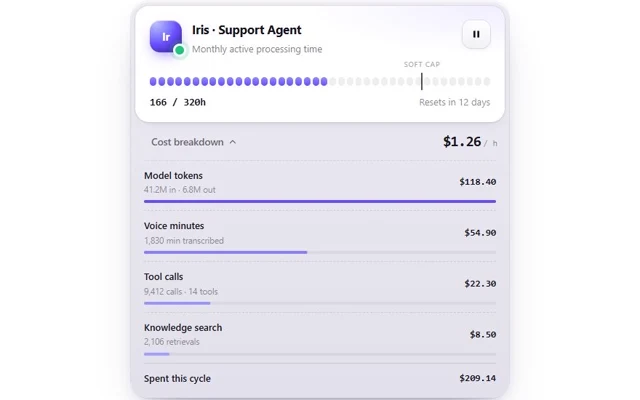
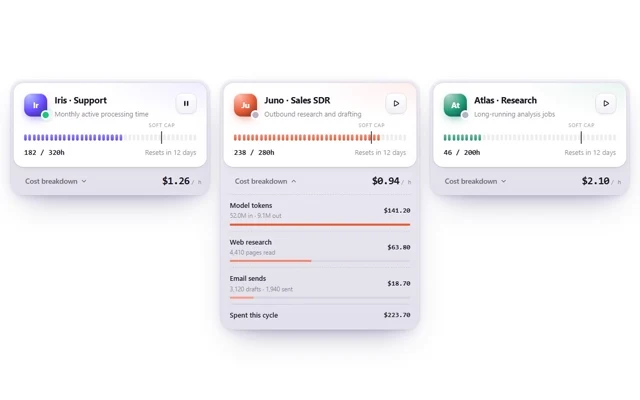
dashboards batch: review fixes
- aurora-feature-bento: ray-striped aurora curtains over stars replace the blurred-blob mesh
- led-matrix-sales: larger board, tooltip beside the column and clamped inside the board
- cell-column-trend: tooltip clamped inside the plot
- agent-usage-meter: demo shows three agents
- card demos centre in a full-height frame

diff --git a/components/aurora-feature-bento/aurora-feature-bento.tsx b/components/aurora-feature-bento/aurora-feature-bento.tsx
@@ -54,11 +54,17 @@ const CSS = [
   "background:#0c1122;box-shadow:0 0 0 1px rgba(150,180,255,.1) inset,0 1px 0 rgba(255,255,255,.08) inset;",
   "opacity:0;transform:translateY(24px);filter:blur(6px);transition:opacity .7s,transform 1s " + SPRING + ",filter .7s;transition-delay:calc(var(--i)*110ms)}",
   ".afb-in .afb-card{opacity:1;transform:none;filter:none}",
-  ".afb-sky{position:absolute;inset:-30%;z-index:-2;pointer-events:none}",
-  ".afb-sky i{position:absolute;width:60%;height:60%;border-radius:50%;filter:blur(48px);opacity:.75;animation:afb-drift 16s ease-in-out infinite alternate}",
-  ".afb-sky i:nth-child(1){left:5%;top:10%;background:var(--a)}",
-  ".afb-sky i:nth-child(2){right:0;top:30%;background:var(--b);animation-duration:21s;animation-delay:-6s}",
-  ".afb-sky i:nth-child(3){left:25%;bottom:0;background:var(--c);opacity:.5;animation-duration:26s;animation-delay:-11s}",
+  ".afb-sky{position:absolute;inset:0;z-index:-2;pointer-events:none;overflow:hidden;",
+  "background:radial-gradient(120% 60% at 50% 115%,color-mix(in oklab,var(--c) 45%,transparent),transparent 62%),linear-gradient(180deg,#03060f,#081024 55%,#0b1226)}",
+  ".afb-sky i{position:absolute}",
+  ".afb-sky i:nth-child(1){inset:0;opacity:.75;animation:afb-twinkle 5s ease-in-out infinite alternate;",
+  "background-image:radial-gradient(1px 1px at 8% 12%,#fff,transparent),radial-gradient(1px 1px at 22% 34%,#dfe9ff,transparent),radial-gradient(1.5px 1.5px at 37% 8%,#fff,transparent),radial-gradient(1px 1px at 52% 26%,#cfe0ff,transparent),",
+  "radial-gradient(1px 1px at 66% 14%,#fff,transparent),radial-gradient(1.5px 1.5px at 81% 30%,#fff,transparent),radial-gradient(1px 1px at 92% 9%,#dfe9ff,transparent),radial-gradient(1px 1px at 14% 52%,#fff,transparent),radial-gradient(1px 1px at 74% 46%,#fff,transparent),radial-gradient(1px 1px at 44% 58%,#cfe0ff,transparent)}",
+  ".afb-sky i:nth-child(2),.afb-sky i:nth-child(3){left:-25%;right:-25%;top:-8%;height:78%;transform-origin:50% 0;mix-blend-mode:screen;",
+  "background:repeating-linear-gradient(90deg,rgba(255,255,255,0) 0 3px,rgba(255,255,255,.28) 3px 4px,rgba(255,255,255,0) 4px 10px),linear-gradient(180deg,transparent 0%,var(--a) 38%,var(--b) 72%,transparent 100%);",
+  "-webkit-mask-image:radial-gradient(52% 50% at 50% 48%,#000 35%,transparent 72%);mask-image:radial-gradient(52% 50% at 50% 48%,#000 35%,transparent 72%);",
+  "filter:blur(1.6px) saturate(1.35);opacity:.85;animation:afb-sway 15s ease-in-out infinite alternate}",
+  ".afb-sky i:nth-child(3){left:-10%;right:-40%;top:2%;height:60%;opacity:.5;background:repeating-linear-gradient(90deg,rgba(255,255,255,0) 0 2px,rgba(255,255,255,.24) 2px 3px,rgba(255,255,255,0) 3px 8px),linear-gradient(180deg,transparent,var(--c) 45%,transparent);animation-duration:21s;animation-delay:-8s}",
   ".afb-card:after{content:'';position:absolute;inset:0;z-index:-1;background:linear-gradient(180deg,rgba(7,10,20,0) 30%,rgba(7,10,20,.55) 62%,rgba(7,10,20,.92));pointer-events:none}",
   ".afb-ui{position:absolute;left:18px;right:18px;top:18px}",
   ".afb-glass{border-radius:16px;background:rgba(14,19,36,.55);backdrop-filter:blur(14px) saturate(1.4);-webkit-backdrop-filter:blur(14px) saturate(1.4);",
@@ -102,7 +108,8 @@ const CSS = [
   ".afb-cur svg{flex:none;filter:drop-shadow(0 2px 3px rgba(0,0,0,.5))}",
   ".afb-tag{margin-top:14px;padding:4px 9px;border-radius:99px;font-size:11.5px;font-weight:650;color:#fff;background:var(--k);box-shadow:0 6px 14px -6px var(--k);white-space:nowrap}",
   ".afb-sr{position:absolute;width:1px;height:1px;overflow:hidden;clip:rect(0 0 0 0);white-space:nowrap}",
-  "@keyframes afb-drift{0%{transform:translate(0,0) scale(1)}50%{transform:translate(12%,-8%) scale(1.15)}100%{transform:translate(-10%,10%) scale(.95)}}",
+  "@keyframes afb-sway{0%{transform:skewX(-10deg) translateX(-5%) scaleY(1)}50%{transform:skewX(4deg) translateX(2%) scaleY(1.1)}100%{transform:skewX(12deg) translateX(6%) scaleY(.95)}}",
+  "@keyframes afb-twinkle{0%{opacity:.45}100%{opacity:.85}}",
   "@keyframes afb-blink{50%{opacity:0}}",
   "@keyframes afb-sheen{to{transform:translateX(120%)}}",
   "@keyframes afb-p1{0%,100%{transform:translate(190px,-4px)}30%{transform:translate(206px,44px)}55%{transform:translate(70px,62px)}80%{transform:translate(130px,10px)}}",
@@ -209,7 +216,7 @@ export default function AuroraFeatureBento({
       <style>{CSS}</style>
 
       <section className="afb-card" style={{ ["--i" as string]: 0 }}>
-        <Sky a="#1d4ed8" b="#22d3ee" c="#6366f1" />
+        <Sky a="#34f5c5" b="#2b7bff" c="#5b8cff" />
         <div className="afb-ui">
           <div className="afb-avatar" aria-hidden="true">
             <svg width="14" height="14" viewBox="0 0 24 24" fill="none" stroke="currentColor" strokeWidth="2" strokeLinecap="round">
@@ -234,7 +241,7 @@ export default function AuroraFeatureBento({
       </section>
 
       <section className="afb-card" style={{ ["--i" as string]: 1 }}>
-        <Sky a="#7c3aed" b="#2563eb" c="#db2777" />
+        <Sky a="#b48cff" b="#ff5fa2" c="#7c5cff" />
         <div className="afb-ui afb-glass afb-tools">
           <div className="afb-th">
             <svg width="14" height="14" viewBox="0 0 24 24" fill="none" stroke="currentColor" strokeWidth="2" strokeLinecap="round" strokeLinejoin="round" aria-hidden="true">
@@ -273,7 +280,7 @@ export default function AuroraFeatureBento({
       </section>
 
       <section className="afb-card" style={{ ["--i" as string]: 2 }}>
-        <Sky a="#0ea5e9" b="#f43f5e" c="#8b5cf6" />
+        <Sky a="#7cffb2" b="#26c6ff" c="#ffb36b" />
         <div className="afb-ui" aria-hidden="true">
           <div className="afb-lbl">Work email</div>
           <div className="afb-glass afb-field">

diff --git a/components/led-matrix-sales/led-matrix-sales.tsx b/components/led-matrix-sales/led-matrix-sales.tsx
@@ -46,7 +46,7 @@ const SPRING =
   "linear(0,0.009,0.035 2.1%,0.141,0.281 6.7%,0.723 12.9%,0.938 16.7%,1.017,1.077,1.121,1.149 24.3%,1.159,1.163,1.161,1.154 29.9%,1.129 32.8%,1.051 39.6%,1.017 43.1%,0.991,0.977 51%,0.974 53.8%,0.975 57.1%,0.997 69.8%,1.003 76.9%,1)"
 
 const CSS = [
-  ".lms-root{--lms-accent:#ffb547;position:relative;width:100%;max-width:720px;border-radius:26px;padding:22px 22px 18px;color:#f6ead8;",
+  ".lms-root{--lms-accent:#ffb547;position:relative;width:100%;max-width:980px;border-radius:28px;padding:28px 30px 22px;color:#f6ead8;",
   "background:radial-gradient(120% 90% at 100% 0%,color-mix(in oklab,var(--lms-accent) 26%,transparent),transparent 55%),radial-gradient(80% 60% at 0% 100%,#2a1d12,transparent 70%),linear-gradient(180deg,#1b140e,#100c08);",
   "box-shadow:0 1px 0 rgba(255,236,200,.09) inset,0 0 0 1px rgba(255,214,150,.07) inset,0 30px 60px -24px rgba(20,10,0,.55),0 12px 24px -12px rgba(20,10,0,.4);",
   "font-family:'Inter Tight','Inter',ui-sans-serif,system-ui,sans-serif;overflow:hidden;isolation:isolate}",
@@ -56,10 +56,10 @@ const CSS = [
   ".lms-id{display:flex;align-items:center;gap:12px}",
   ".lms-chip{width:38px;height:38px;border-radius:12px;display:grid;place-items:center;color:#2a1700;",
   "background:linear-gradient(160deg,color-mix(in oklab,var(--lms-accent) 70%,#fff),var(--lms-accent));box-shadow:0 1px 0 rgba(255,255,255,.55) inset,0 6px 16px -4px color-mix(in oklab,var(--lms-accent) 60%,transparent)}",
-  ".lms-title{font-size:15px;font-weight:600;letter-spacing:-.01em}",
+  ".lms-title{font-size:17px;font-weight:600;letter-spacing:-.01em}",
   ".lms-cap{font-size:12px;color:rgba(246,234,216,.55);margin-top:2px}",
   ".lms-sum{text-align:right}",
-  ".lms-big{font:600 34px/1 'JetBrains Mono','SF Mono',ui-monospace,monospace;letter-spacing:-.04em;display:flex;justify-content:flex-end}",
+  ".lms-big{font:600 42px/1 'JetBrains Mono','SF Mono',ui-monospace,monospace;letter-spacing:-.04em;display:flex;justify-content:flex-end}",
   ".lms-delta{display:inline-flex;align-items:center;gap:6px;margin-top:8px;font-size:12px;color:rgba(246,234,216,.55)}",
   ".lms-pill{display:inline-flex;align-items:center;gap:4px;padding:3px 8px;border-radius:999px;font-weight:600;font-variant-numeric:tabular-nums}",
   ".lms-up{background:rgba(124,220,150,.12);color:#8ee6a8;box-shadow:0 0 0 1px rgba(124,220,150,.22) inset}",
@@ -82,12 +82,14 @@ const CSS = [
   ".lms-act .lms-top{fill:#fffaf0}",
   ".lms-guide{position:absolute;top:0;bottom:0;width:1px;margin-left:-.5px;pointer-events:none;opacity:0;",
   "background:linear-gradient(180deg,transparent,rgba(255,236,200,.5) 30%,rgba(255,236,200,.08));transition:left .45s " + SPRING + ",opacity .2s}",
-  ".lms-tip{position:absolute;pointer-events:none;transform:translate(-50%,calc(-100% - 12px)) scale(.9);transform-origin:50% 100%;opacity:0;",
+  ".lms-tip{position:absolute;z-index:2;pointer-events:none;transform:translate(16px,-50%) scale(.9);transform-origin:0 50%;opacity:0;",
   "transition:left .45s " + SPRING + ",top .45s " + SPRING + ",opacity .2s,transform .35s " + SPRING + ";",
   "background:linear-gradient(180deg,#fffaf2,#f3e7d4);color:#24160a;border-radius:12px;padding:7px 11px 8px;white-space:nowrap;",
   "box-shadow:0 1px 0 #fff inset,0 10px 24px -8px rgba(0,0,0,.6),0 0 0 1px rgba(0,0,0,.06)}",
   ".lms-hot .lms-tip,.lms-hot .lms-guide{opacity:1}",
-  ".lms-hot .lms-tip{transform:translate(-50%,calc(-100% - 12px)) scale(1)}",
+  ".lms-hot .lms-tip{transform:translate(16px,-50%) scale(1)}",
+  ".lms-tip.lms-flipx{transform:translate(calc(-100% - 16px),-50%) scale(.9);transform-origin:100% 50%}",
+  ".lms-hot .lms-tip.lms-flipx{transform:translate(calc(-100% - 16px),-50%) scale(1)}",
   ".lms-tip-d{font-size:10px;letter-spacing:.08em;text-transform:uppercase;color:#8a6b4c;font-weight:600}",
   ".lms-tip-v{font:700 15px/1 'JetBrains Mono','SF Mono',ui-monospace,monospace;margin-top:4px;display:flex}",
   ".lms-hit{fill:transparent;cursor:crosshair}",
@@ -261,11 +263,12 @@ export default function LedMatrixSales({
         </svg>
         <div className="lms-guide" style={{ left: ((Math.max(active, 0) + 0.5) / Math.max(n, 1)) * 100 + "%" }} />
         <div
-          className="lms-tip"
+          className={"lms-tip" + (active > n * 0.66 ? " lms-flipx" : "")}
           aria-live="polite"
           style={{
-            left: "clamp(48px," + ((Math.max(active, 0) + 0.5) / Math.max(n, 1)) * 100 + "%,calc(100% - 48px))",
-            top: (1 - peak / rows) * 100 + "%",
+            left: ((Math.max(active, 0) + 0.5) / Math.max(n, 1)) * 100 + "%",
+            // Beside the column's top dot, clamped inside the board so it never reaches the header.
+            top: "clamp(26px," + ((1 - peak / rows) * 100 + 50 / rows) + "%,calc(100% - 26px))",
           }}
         >
           <div className="lms-tip-d">{a ? a.label : ""}</div>

diff --git a/components/agent-usage-meter/demo.tsx b/components/agent-usage-meter/demo.tsx
@@ -1,18 +1,41 @@
 import AgentUsageMeter from "@/components/ui/agent-usage-meter"
 
+// Three agents on one plan: one live, one near its soft cap, one quiet.
 export default function Demo() {
   return (
-    <div className="flex min-h-[620px] w-full items-center justify-center bg-background p-4 sm:p-10">
-      <AgentUsageMeter
-        name="Iris · Support Agent"
-        description="Monthly active processing time"
-        badge="Ir"
-        used={162}
-        limit={320}
-        resetsIn="12 days"
-        rate={1.26}
-        live
-      />
+    <div className="flex min-h-svh w-full items-center justify-center bg-background p-4 sm:p-10">
+      <div className="grid w-full max-w-[1180px] grid-cols-1 items-start gap-5 md:grid-cols-2 xl:grid-cols-3">
+        <AgentUsageMeter name="Iris · Support" description="Monthly active processing time" badge="Ir" used={162} limit={320} resetsIn="12 days" rate={1.26} live />
+        <AgentUsageMeter
+          name="Juno · Sales SDR"
+          description="Outbound research and drafting"
+          badge="Ju"
+          used={238}
+          limit={280}
+          resetsIn="12 days"
+          rate={0.94}
+          accent="#e8603c"
+          breakdown={[
+            { label: "Model tokens", amount: 141.2, hint: "52.0M in · 9.1M out" },
+            { label: "Web research", amount: 63.8, hint: "4,410 pages read" },
+            { label: "Email sends", amount: 18.7, hint: "3,120 drafts · 1,940 sent" },
+          ]}
+        />
+        <AgentUsageMeter
+          name="Atlas · Research"
+          description="Long-running analysis jobs"
+          badge="At"
+          used={46}
+          limit={200}
+          resetsIn="12 days"
+          rate={2.1}
+          accent="#1f9d7a"
+          breakdown={[
+            { label: "Model tokens", amount: 72.5, hint: "11.4M in · 3.2M out" },
+            { label: "Sandbox compute", amount: 21.3, hint: "38 h of notebooks" },
+          ]}
+        />
+      </div>
     </div>
   )
 }

diff --git a/components/cell-column-trend/cell-column-trend.tsx b/components/cell-column-trend/cell-column-trend.tsx
@@ -232,7 +232,7 @@ export default function CellColumnTrend({
               </div>
             ))}
           <span className="cct-line" style={{ left: pct + "%" }} aria-hidden="true" />
-          <div className={"cct-tip" + (pct > 66 ? " cct-flipx" : "")} style={{ left: pct + "%", top: tipTop + "%" }} aria-live="polite">
+          <div className={"cct-tip" + (pct > 66 ? " cct-flipx" : "")} style={{ left: pct + "%", top: "clamp(26px," + tipTop + "%,calc(100% - 26px))" }} aria-live="polite">
             <div className="cct-tip-d">{active >= 0 ? labels[active] : ""}</div>
             <div className="cct-tip-v">
               <i aria-hidden="true" />

diff --git a/components/led-matrix-sales/demo.tsx b/components/led-matrix-sales/demo.tsx
@@ -18,8 +18,8 @@ const data = Array.from({ length: 42 }, (_, i) => {
 
 export default function Demo() {
   return (
-    <div className="flex min-h-[560px] w-full items-center justify-center bg-background p-4 sm:p-10">
-      <LedMatrixSales data={data} title="Net sales" caption="Daily revenue · Sep 14 – Oct 25" delta={12.4} deltaLabel="vs previous 6 weeks" />
+    <div className="flex min-h-svh w-full items-center justify-center bg-background p-4 sm:p-10">
+      <LedMatrixSales data={data} rows={11} title="Net sales" caption="Daily revenue · Sep 14 – Oct 25" delta={12.4} deltaLabel="vs previous 6 weeks" />
     </div>
   )
 }

diff --git a/components/aurora-feature-bento/demo.tsx b/components/aurora-feature-bento/demo.tsx
@@ -2,7 +2,7 @@ import AuroraFeatureBento from "@/components/ui/aurora-feature-bento"
 
 export default function Demo() {
   return (
-    <div className="flex min-h-[640px] w-full items-center justify-center bg-background p-4 sm:p-10">
+    <div className="flex min-h-svh w-full items-center justify-center bg-background p-4 sm:p-10">
       <AuroraFeatureBento
         prompt="Add a *step that asks for company size* before the *pricing question*, and skip it for students."
         people={["Meera Shah", "Theo Lund"]}

diff --git a/components/orbit-social-bento/demo.tsx b/components/orbit-social-bento/demo.tsx
@@ -2,7 +2,7 @@ import OrbitSocialBento from "@/components/ui/orbit-social-bento"
 
 export default function Demo() {
   return (
-    <div className="flex min-h-[720px] w-full items-center justify-center bg-background p-4 sm:p-10">
+    <div className="flex min-h-svh w-full items-center justify-center bg-background p-4 sm:p-10">
       <OrbitSocialBento members={48210} memberLabel="builders in 92 countries" />
     </div>
   )

diff --git a/components/cell-column-trend/demo.tsx b/components/cell-column-trend/demo.tsx
@@ -26,7 +26,7 @@ const metrics = [
 
 export default function Demo() {
   return (
-    <div className="flex min-h-[680px] w-full items-center justify-center bg-background p-4 sm:p-10">
+    <div className="flex min-h-svh w-full items-center justify-center bg-background p-4 sm:p-10">
       <CellColumnTrend
         title="Automation health"
         caption="Weekly · Nov 2025 – Oct 2026"

diff --git a/components/tilted-metric-deck/demo.tsx b/components/tilted-metric-deck/demo.tsx
@@ -14,7 +14,7 @@ const metrics = [
 
 export default function Demo() {
   return (
-    <div className="flex min-h-[620px] w-full items-center justify-center bg-background p-4 sm:p-10">
+    <div className="flex min-h-svh w-full items-center justify-center bg-background p-4 sm:p-10">
       <TiltedMetricDeck metrics={metrics} />
     </div>
   )

diff --git a/components/aurora-feature-bento/README.md b/components/aurora-feature-bento/README.md
@@ -1,6 +1,6 @@
 # Aurora Feature Bento
 
-A three-card SaaS feature bento over slow-drifting aurora light. Each card holds a small live interface in frosted glass, above a title and a line of copy.
+A three-card SaaS feature bento under a night sky. Each card has curtains of aurora rays that sway over a starfield and a coloured horizon glow. Each card holds a small live interface in frosted glass, above a title and a line of copy.
 
 1. **Prompt.** A message types itself out, bold phrases and all. Then the Generate button catches a sheen of light. Click Generate to type it again.
 2. **Integrations.** A field of round tool tiles. The one under the pointer swells with a spring and glows in its colour, the rest shrink back, and the footer names the tool.
@@ -34,7 +34,7 @@ import AuroraFeatureBento from "@/components/ui/aurora-feature-bento"
 
 ## Notes
 
-- React only. The aurora is three blurred blobs per card drifting on CSS transforms. Typing is a 38 ms interval, and the cursors are CSS keyframes. Nothing reads layout.
+- React only. The aurora is two masked, ray-striped curtains per card swaying on CSS skew transforms, over a twinkling star layer. Typing is a 38 ms interval, and the cursors are CSS keyframes. Nothing reads layout.
 - The prompt is in an `sr-only` span, so screen readers get the full text, not the typing.
 - Below 860 px the cards stack.
 - `prefers-reduced-motion` shows the prompt typed out and stops the aurora, cursors, sheen and springs.

diff --git a/components/led-matrix-sales/README.md b/components/led-matrix-sales/README.md
@@ -2,7 +2,7 @@
 
 A revenue card whose chart is a board of LED dots. Each column is a day and lights from the bottom up to that day's level. The top dot of each column burns brightest. When the card scrolls into view, the board sweeps on from left to right and the total rolls up like an odometer.
 
-Hover, tap or arrow across the board to pick a day. The picked column glows, its neighbours half-dim and the rest fall back. A tooltip glides to the column top, and its digits roll to the new value.
+Hover, tap or arrow across the board to pick a day. The picked column glows, its neighbours half-dim and the rest fall back. A tooltip glides beside the column top, kept inside the board and flipping sides past two-thirds, and its digits roll to the new value.
 
 ```tsx
 import LedMatrixSales from "@/components/ui/led-matrix-sales"
